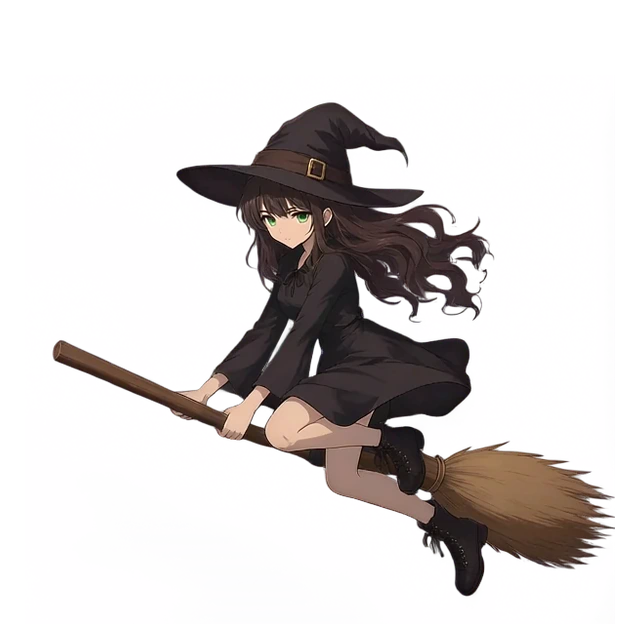
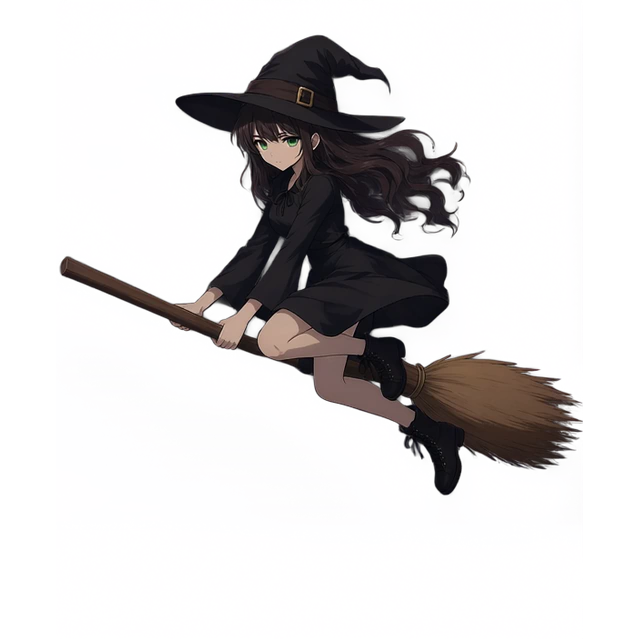
Restore approved broom art and fix hats in other scenes

Changed region(s): [[0.0625, 0.0312, 0.9688, 0.9375]]

diff --git a/resources/js/Pages/Client/Dashboard.vue b/resources/js/Pages/Client/Dashboard.vue
@@ -55,7 +55,7 @@ const activeCount = computed(() =>
                 </div>
             </div>
             <div class="pointer-events-none absolute bottom-3 right-3 hidden h-[200px] w-[280px] overflow-hidden rounded-[24px] border border-white/70 bg-white/30 shadow-[0_18px_45px_rgba(70,52,120,0.16)] sm:block lg:h-[225px] lg:w-[320px]">
-                <img src="/images/kiki/kiki-desk.webp" alt="Кики за работой" class="h-full w-full object-cover object-[58%_12%]" />
+                <img src="/images/kiki/kiki-desk.webp" alt="Кики за работой" class="h-full w-full object-cover object-[58%_0%]" />
             </div>
         </section>
 

diff --git a/docs/agents/kiki-assets.md b/docs/agents/kiki-assets.md
@@ -20,13 +20,13 @@
 
 | Файл | Формат | Где используется |
 |---|---|---|
-| `kiki-flight.webp` | 1280×704, RGBA | полный полёт, источник кропов |
+| `kiki-flight.webp` | 1280×704, RGBA | одобренный полёт, источник кропов |
 | `kiki-flight-portrait.webp` | 768×1024, RGBA | вход, правая панель |
 | `kiki-flight-hero.webp` | 900×620, RGBA | hero админ-дашборда |
-| `kiki-flight-avatar.webp` | 640×640, RGBA | аватар в панели/сайдбаре; шляпа целиком |
+| `kiki-flight-avatar.webp` | 640×640, RGB | аватар в панели/сайдбаре; полная высокая шляпа |
 | `kiki-flight-badge.webp` | 640×640, RGBA | empty states; шляпа целиком |
-| `kiki-seated.webp` | 992×1248, RGBA | шаблоны задач, приветствие ассистента, empty |
-| `kiki-desk.webp` | 1152×1010, RGB | клиентский дашборд, framed-карточка «за работой» |
+| `kiki-seated.webp` | 972×1248, RGBA | шаблоны задач, приветствие ассистента, empty; высокая шляпа |
+| `kiki-desk.webp` | 1152×1024, RGB | клиентский дашборд, framed-карточка «за работой»; высокая шляпа |
 | `kiki-standing.webp` | 544×1632, RGBA | резерв: стоячая поза в светлой теме |
 | `kiki-hero.webp` | 1024×576, RGBA | старый спокойный кадр (резерв) |
 | `kiki-empty.webp` | 640×480, RGBA | старый empty-кадр (резерв) |
@@ -38,7 +38,8 @@
 ## Свет и кадр
 
 - Свет — мягкий тёплый дневной, бумажный фон, лавандовое свечение и персиковый акцент; без ночной темноты.
-- Полёт пересвечен отдельным i2i-проходом: убрана ночная подложка, подняты тени, добавлен тёплый заполняющий свет.
+- Полёт оставлен в одобренном варианте: полная шляпа, прозрачный фон, мягкий свет; кропы только с запасом.
+- Остальные сцены пересобраны i2i с отдельным **hat-reference**: высокая остроконечная шляпа с изогнутым кончиком, широкими полями, коричневой лентой и пряжкой; шляпа всегда целиком.
 - Шляпа всегда входит в кадр целиком, с запасом над кончиком; для аватара — тоже (не «face crop» без шляпы).
 - Композиция: персонаж справа, левая часть пустая под заголовок/кнопки.
 - Прозрачный фон; не растягивать, не перекрашивать, не добавлять текст поверх персонажа.
